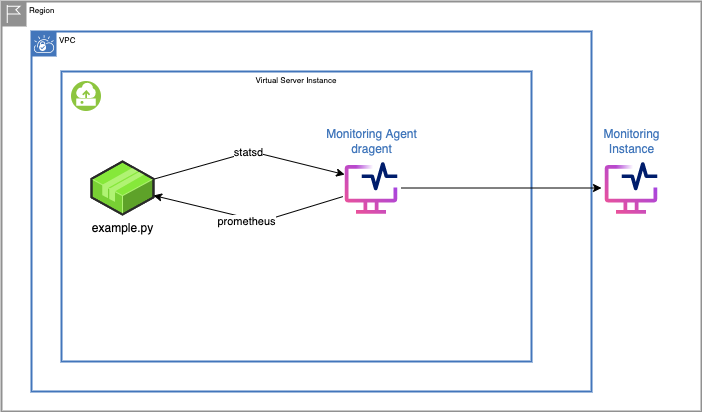
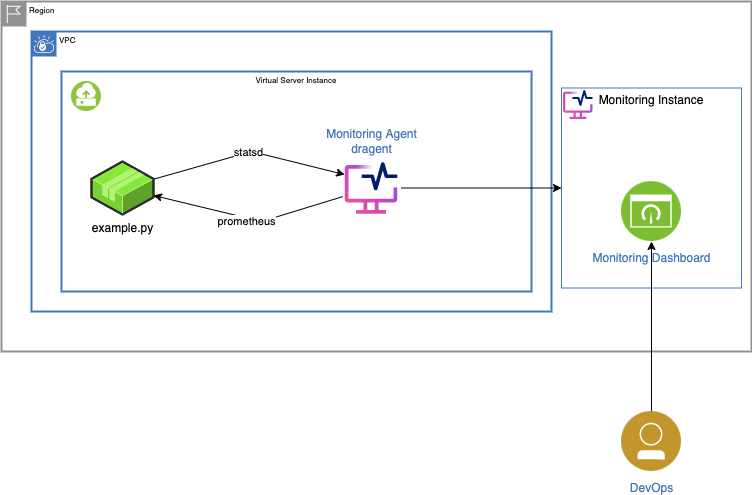
better examples

diff --git a/app/async.py b/app/async.py
@@ -1,0 +1,50 @@
+#!/usr/bin/env python3
+import asyncio
+import queue
+import random
+from prometheus_client import start_http_server, Histogram
+import prometheus_client
+from statsd import StatsClient
+
+# number of example_ functions to run simultaneously
+simultaneous = 10
+
+buckets = (1.0, 2.0, 3.0, 4.0, 5.0, 6.0, 7.0, 8.0, 9.0, 10.0, prometheus_client.utils.INF)
+h = Histogram('custom_histogram', 'application prometheus example', buckets=buckets)
+statsd = StatsClient()
+
+async def prometheus_example(i):
+  with h.time():
+    r = random.betavariate(2, 5); # random number 0..1 with a distribution similar to processing times
+    await asyncio.sleep(r * 10.0)
+    print(f"prometheus_example {i} done")
+
+async def statsd_example(i):
+  with statsd.timer("custom_timing"):
+    r = random.betavariate(2, 5); # random number 0..1 with a distribution similar to processing times
+    await asyncio.sleep(r * 1.0)
+    print(f"statsd_example {i} done")
+
+#--------------------------------------------------------------------------------------------
+# Code to simulatenously run multiple copies of the two examples above
+# 
+
+async def runner(example, simultaneous):
+  """ example - function to run, simultaneous - number of active functions"""
+  l = [asyncio.create_task(example(i)) for i in range(simultaneous)]
+  i = simultaneous
+  while True:
+    print(f"total:{i}")
+    done, pending = await asyncio.wait(l, return_when=asyncio.FIRST_COMPLETED)
+    l = list(pending) + [asyncio.create_task(example(t)) for t in range(i, i + len(done))]
+    i = i + len(done)
+
+async def main():
+  await asyncio.wait([asyncio.create_task(runner(prometheus_example, simultaneous)), asyncio.create_task(runner(statsd_example, simultaneous))], return_when=asyncio.ALL_COMPLETED)
+
+prometheus_port = 8000
+if __name__ == '__main__':
+    print(f"Start up the prometheus collection server.  Have you created the /opt/draios/etc/prometheus.yaml, see README.md, for port {prometheus_port}?")
+    start_http_server(prometheus_port)
+    asyncio.run(main())
+

diff --git a/app/raw.py b/app/raw.py
@@ -10,17 +10,14 @@ buckets = (1.0, 2.0, 3.0, 4.0, 5.0, 6.0, 7.0, 8.0, 9.0, 10.0, prometheus_client.
 h = Histogram('custom_histogram', 'application prometheus example', buckets=buckets)
 statsd = StatsClient()
 
-@ h.time()
-def prometheus_example(i):
+sleep_time = 0.10
+# it is also possible to decorate this function with either statsd or prometheus decorators
+def process_observe():
     r = random.betavariate(2, 5); # random number 0..1 with a distribution similar to processing times
-    time.sleep(r * 10.0)
-    print(f"prometheus_example {i} done")
-
-@statsd.timer("custom_timing")
-def statsd_example(i):
-    r = random.betavariate(2, 5); # random number 0..1 with a distribution similar to processing times
-    time.sleep(r * 1.0)
-    print(f"statsd_example {i} done")
+    # print(r)
+    h.observe(r * 10.0); # scale up to the bucket sizes 1..10
+    statsd.timing('custom_timing', r * 1000.0); #timing wants milliseconds
+    time.sleep(sleep_time); # slow down a little, adjust sleep_time to increase data flow
 
 prometheus_port = 8000
 if __name__ == '__main__':
@@ -28,9 +25,5 @@ if __name__ == '__main__':
     start_http_server(prometheus_port)
 
     # Generate some requests.
-    i = 0
     while True:
-      prometheus_example(i)
-      i += 1
-      statsd_example(i)
-      i += 1
+        process_observe()

diff --git a/README.md b/README.md
@@ -11,9 +11,14 @@ Create the following resources in the IBM cloud:
 - [Virtual Server Instance](https://cloud.ibm.com/vpc-ext/compute/vs) and a Floating IP.  This example is based on the ibm-ubuntu-20-04-3-minimal-amd64-2 image.  You can create the VPC resources required using the cloud console or use the terraform configuration in the [terraform/](./terraform/README.md) directory.
 
 ## Install the monitoring agent on the instance
-To install the monitoring agent, dragent, on the instance check out the instructions in the cloud Monitoring instance and follow through on the VPC instance:
+The IBM Cloud Monitoring instance created earlier includes some easy to follow instructions to install a Linux agent:
 
-- Find the instructions provided in the IBM Cloud Console, by selecting your [Monitoring](https://cloud.ibm.com/observe/monitoring) instance, click **Monitoring sources** on the left and click the **Linux** tab.  See [Deploying a monitoring agent](https://test.cloud.ibm.com/docs/monitoring?topic=monitoring-config_agent) for more help.
+- Open the [Monitoring](https://cloud.ibm.com/observe/monitoring) instance
+  - Click your monitoring instance
+  - Click **Monitoring sources** on the left
+  - Click the **Linux** tab
+
+  You can also check out [Deploying a monitoring agent](https://test.cloud.ibm.com/docs/monitoring?topic=monitoring-config_agent)
 - ssh to the instance through the Floating IP and copy/paste the agent installation instructions.
 
 Verify the installation of the agent: dragent:
@@ -182,10 +187,15 @@ Check out the statsd metrics sent by the application through the agent to the mo
 Check out the prometheus metrics hosted by the application and scraped by the agent and sent to the monitoring instance.
 - Click on **Explore** on the left
 - Click **PromQL Query** on the top
-- type: rate(custom_histogram_bucket[$__interval]) 
+- In the **A** query box type: custom_histogram_bucket
 - Click the **5M** interval on the bottom
 
-You should see a graph of each of the histogram buckets created in the application from le="1.0".."10.0".  The counts being accumulated in the buckets is ever increasing.  The rate() function shows the change in the bucket size during the interval so the lines are not rising in general over time.  The number of items placed in any bucket is controlled by both the random value generated and how frequently the call is made.  The frequency is determined by **sleep_time** varable in the example.py:
+
+You should see a graph of each of the histogram buckets created in the application from le="1.0".."10.0".  The count being accumulated in each of the buckets is ever increasing.  
+
+Changee the **A** query to: rate(custom_histogram_bucket[$__interval]) 
+
+The rate() function shows the per second change in the bucket size.  This during the interval so the lines are not rising in general over time.  The number of items placed in any bucket is controlled by both the random value generated and how frequently the call is made.  The frequency is determined by **simultaneouss** varable in the example.py:
 
 ```
 sleep_time = 0.10
@@ -199,12 +209,9 @@ Try the following PromQL Query:
 min(custom_histogram_bucket{le="4.0"}) / avg(custom_histogram_count)
 ```
 
-This shows only the bucket 4.0 and divides by the histogram count.  The histogram count is incremented each time an item is put into the buckets.  The number in this case will capture the percent of items that fall into the bucket reguardless of the collection rate.  Toggle the 
+This shows only the bucket 4.0 and divides by the histogram count.  The histogram count is incremented each time an item is put into the buckets.  This will graph the percent of items that fall into the bucket reguardless of the collection rate.
 
-Read up on [PromQL Explorer](https://prometheus.io/docs/prometheus/latest/querying/basics/) and IBM Monitoring
-
-
-More on [PromQL Explorer](https://prometheus.io/docs/prometheus/latest/querying/basics/)
+A full understanding of [Prometheus Query](https://prometheus.io/docs/prometheus/latest/querying/basics/) is outside the scope of this post.
 
 ## Alerting
 
@@ -228,7 +235,7 @@ There are prometheus exporters that can collect data from the instance.  The [No
 
 Ssh to the instance.  Follow the [MONITORING LINUX HOST METRICS WITH THE NODE EXPORTER](https://prometheus.io/docs/guides/node-exporter/) instructions.
 
-Recent experience:
+Example:
 
 ```
 ver=1.3.1
